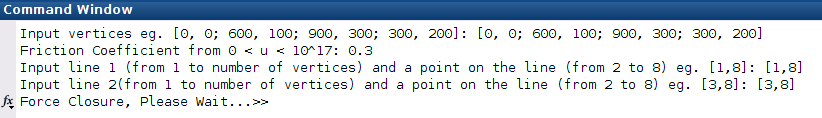
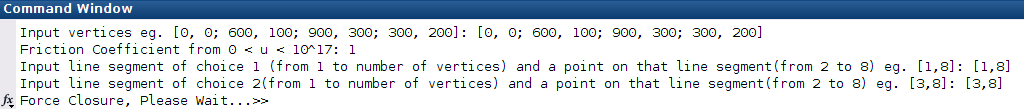
readme_update

diff --git a/Project_2/Project_2.m b/Project_2/Project_2.m
@@ -4,8 +4,8 @@ clear all, clc;
 %% User Input
 v = input('Input vertices eg. [0, 0; 600, 100; 900, 300; 300, 200]: ');
 u = input('Friction Coefficient from 0 < u < 10^17: ');
-a = input('Input line 1 (from 1 to number of vertices) and a point on the line (from 2 to 8) eg. [1,8]: ');
-b = input('Input line 2(from 1 to number of vertices) and a point on the line (from 2 to 8) eg. [3,8]: ');
+a = input('Input line segment of choice 1 (from 1 to number of vertices) and a point on that line segment(from 2 to 8) eg. [1,8]: ');
+b = input('Input line segment of choice 2(from 1 to number of vertices) and a point on that line segment(from 2 to 8) eg. [3,8]: ');
 
 %% Define vertices for the polygon
 % v = [0, 0; 600, 100; 900, 300; 300, 200;];
